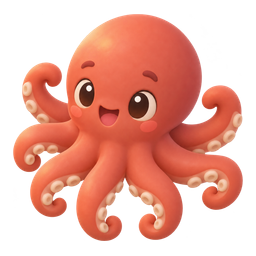
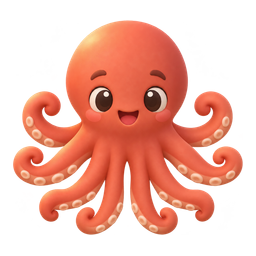
문어 · 오징어 그림 다시: 문어 다리 8개(양쪽 4개씩), 오징어 다리 10개(짧은 다리 8 + 긴 촉완 2), 셀 수 있게 좌우 대칭으로

diff --git a/scripts/art-prompts.ts b/scripts/art-prompts.ts
@@ -78,9 +78,9 @@ export const ART_PROMPTS: Record<string, string> = {
   [ASSETS.crops.carp]: 'one big plump golden-bronze carp fish (#d9a14a) with large shiny scales and two short whiskers, side view, head pointing left',
   [ASSETS.crops.goldfish]: 'one bright orange goldfish (#f08a3c) with a round body and a long flowing double tail fin, side view, head pointing left',
   [ASSETS.crops.mackerel]: 'one sleek mackerel fish with a shiny blue-green back with dark wavy stripes (#5f8fae) and a bright silver belly, a forked tail, side view, head pointing left',
-  [ASSETS.crops.squid]: 'one cute pale pink-cream squid (#f0c9b8) with a pointed triangular head fin, big round eyes and ten short curly tentacles, side view, head pointing up-left',
+  [ASSETS.crops.squid]: 'one cute pale pink-cream squid (#f0c9b8) with a pointed triangular head fin, big round eyes, front view standing upright with the pointed head fin on top, perfectly left-right symmetrical. Below the face hang EXACTLY TEN arms in total: eight short arms in a neat row (four on the left half, four on the right half) plus two long thin tentacles with small paddle tips on the far left and far right. All ten are separated by clear gaps, none overlap or hide behind another, so a child can count exactly 10',
   [ASSETS.crops.eel]: 'one long smooth wavy dark olive eel (#5f6b4e) with a pale yellow belly and a small friendly face, curved in a gentle S shape, side view, head pointing left',
-  [ASSETS.crops.octopus]: 'one cute round reddish-orange octopus (#d9775f) with a big soft head, friendly eyes and eight curly tentacles with small pale suction cups',
+  [ASSETS.crops.octopus]: 'one cute round reddish-orange octopus (#d9775f) with a big soft head, friendly eyes and EXACTLY EIGHT curly tentacles with small pale suction cups, front view, perfectly left-right symmetrical: EXACTLY FOUR tentacles on the left half and EXACTLY FOUR on the right half, eight in total, fanned out evenly around the lower body with clear gaps between them, none overlap or hide behind another, so a child can count exactly 8',
   [ASSETS.crops.treasureMap]: 'one old rolled-open parchment treasure map (#d9b77a) with slightly torn edges, a dotted path and a big red X mark, tied with a small brown string, a few water drops on it',
   [ASSETS.crops.bottle]: 'one small clear sea-green glass bottle (#9fd3c7) with a cork, a rolled paper letter tied with a red string inside it',
   [ASSETS.crops.pearl]: 'one huge giant clam shell, open, with a thick wavy pink-and-cream rim (#f3d9e2), holding one very big shiny round white pearl inside, with a soft glow and sparkles',
